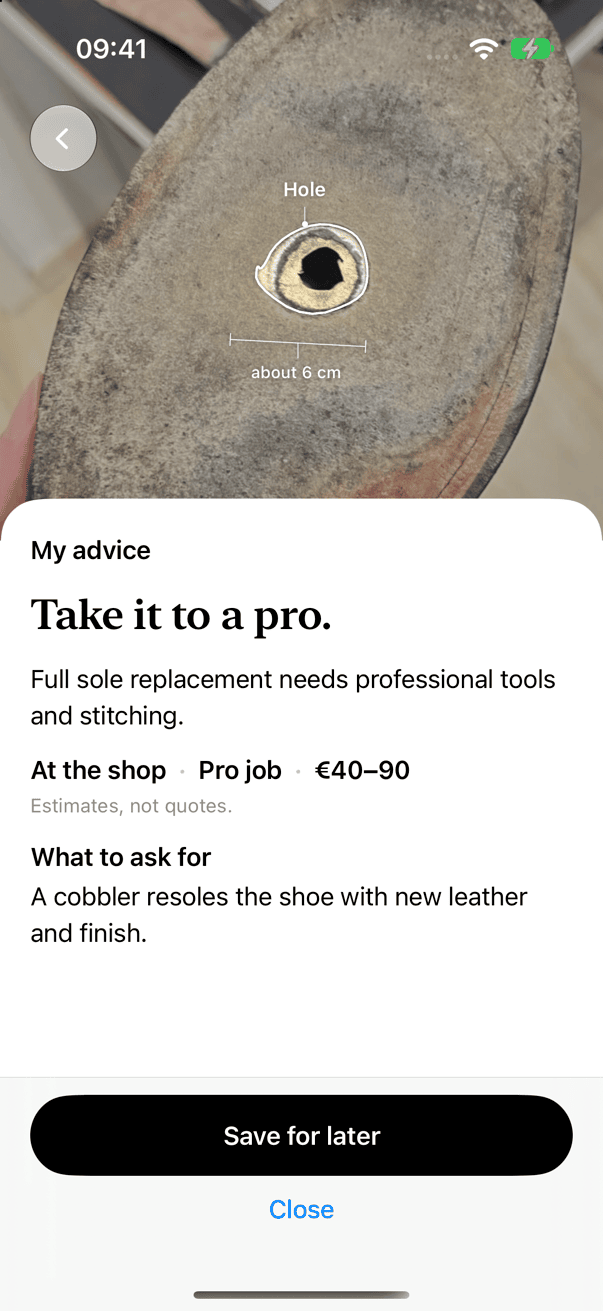
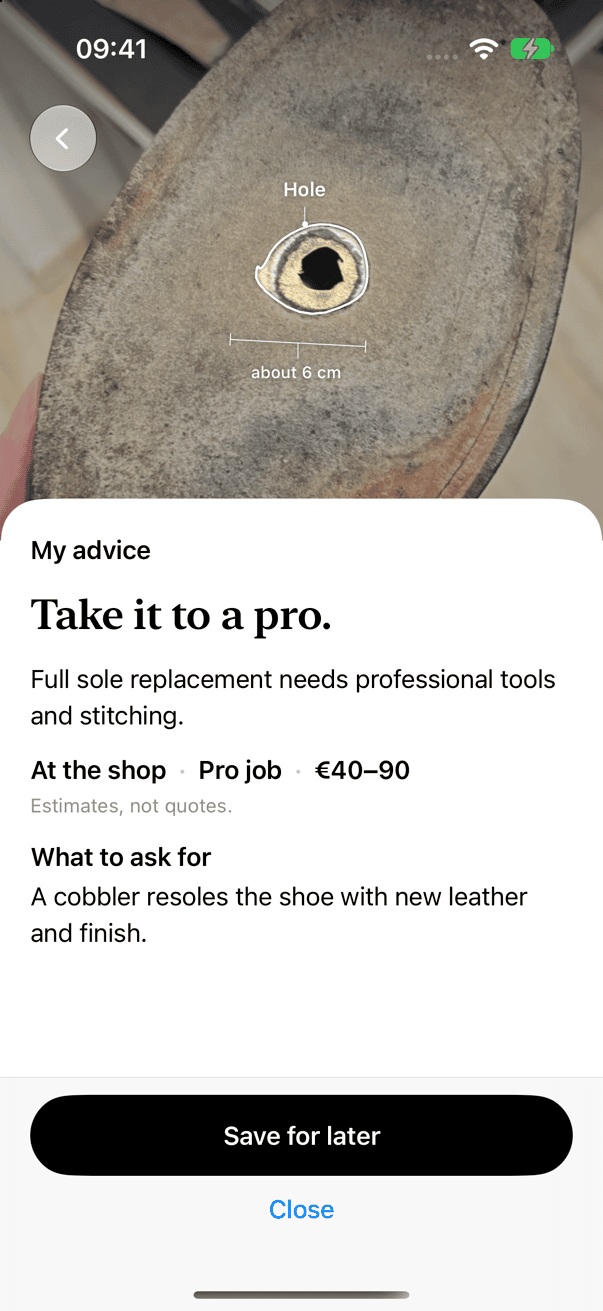
ios: Statusleiste auf Fotos lesbar, Scan-Taste mit Abstand, keine internen IDs im Protokoll, Done-Tab mit Zusammenfassung, Projekt-Schritte vollständig; Übergabe aktualisiert

Changed region(s): [[0.0, 0.0, 1.0, 0.0915], [0.4478, 0.1831, 0.4776, 0.2136], [0.0299, 0.3356, 0.0597, 0.3661]]

diff --git a/ios/RepairAssistant/DesignSystem/MarkedPhoto.swift b/ios/RepairAssistant/DesignSystem/MarkedPhoto.swift
@@ -26,6 +26,8 @@ struct MarkedPhoto<Overlay: View>: View {
     /// Tap in normalized photo coordinates (tap to refine).
     var onTap: ((CGPoint) -> Void)? = nil
     var zoomable = true
+    /// Subtle top gradient so the status bar stays legible on full-bleed photos.
+    var topScrim = true
     @ViewBuilder var overlay: (CGSize) -> Overlay
 
     @State private var zoomedOut = false
@@ -38,6 +40,12 @@ struct MarkedPhoto<Overlay: View>: View {
     var body: some View {
         GeometryReader { geo in
             content(container: geo.size)
+        }
+        .overlay(alignment: .top) {
+            if topScrim && mode != .thumb {
+                LinearGradient(colors: [.black.opacity(0.35), .clear], startPoint: .top, endPoint: .bottom)
+                    .frame(height: 120).allowsHitTesting(false)
+            }
         }
         .clipped()
         .accessibilityElement(children: .ignore)
@@ -127,9 +135,9 @@ struct MarkedPhoto<Overlay: View>: View {
 
 extension MarkedPhoto where Overlay == EmptyView {
     init(image: UIImage, segments: [Segment], mode: Mode = .resting, showLabels: Bool = true, showDimension: Bool = false,
-         labelTopInset: CGFloat = 0, focus: CGRect? = nil, onTap: ((CGPoint) -> Void)? = nil, zoomable: Bool = true) {
+         labelTopInset: CGFloat = 0, focus: CGRect? = nil, onTap: ((CGPoint) -> Void)? = nil, zoomable: Bool = true, topScrim: Bool = true) {
         self.init(image: image, segments: segments, mode: mode, showLabels: showLabels, showDimension: showDimension, labelTopInset: labelTopInset, focus: focus,
-                  onTap: onTap, zoomable: zoomable, overlay: { _ in EmptyView() })
+                  onTap: onTap, zoomable: zoomable, topScrim: topScrim, overlay: { _ in EmptyView() })
     }
 }
 

diff --git a/ios/RepairAssistant/Views/HomeView.swift b/ios/RepairAssistant/Views/HomeView.swift
@@ -27,6 +27,7 @@ struct HomeView: View {
                             belowCards(done)
                         } else {
                             if done.isEmpty { quiet("Finished repairs show up here.") }
+                            else { Text(doneSummary(done)).font(.subheadline).foregroundStyle(Theme.inkSecondary) }
                             VStack(spacing: 0) {
                                 ForEach(Array(done.enumerated()), id: \.element.id) { i, c in
                                     DoneRow(project: c) { flow.openProject(c) }
@@ -39,7 +40,7 @@ struct HomeView: View {
                     .animation(Theme.spring, value: tab)
                 }
                 .scrollIndicators(.hidden)
-                .safeAreaInset(edge: .bottom) { Color.clear.frame(height: 120) }
+                .safeAreaInset(edge: .bottom) { Color.clear.frame(height: 150) }
                 scanButton.padding(.bottom, 24)
             }
         }
@@ -126,6 +127,17 @@ struct HomeView: View {
             }
             .padding(.top, 16)
         }
+    }
+
+    private func doneSummary(_ done: [SavedCase]) -> String {
+        let n = done.count
+        let head = n == 1 ? "1 repair done" : "\(n) repairs done"
+        let saved = done.compactMap { c -> Double? in
+            guard c.response.decision?.recommendation == .repairSelf, let hi = c.response.decision?.costEur.last, hi > 0 else { return nil }
+            let lo = c.response.decision?.costEur.first ?? hi
+            return (lo + hi) / 2
+        }.reduce(0, +)
+        return saved >= 5 ? head + " · about €\(Int((saved / 5).rounded() * 5)) saved vs. buying new" : head
     }
 
     private func quiet(_ text: String) -> some View {

diff --git a/ios/RepairAssistant/Views/ScanView.swift b/ios/RepairAssistant/Views/ScanView.swift
@@ -40,7 +40,7 @@ struct ScanView: View {
                 Color.black.ignoresSafeArea()
                 preview.frame(maxWidth: .infinity, maxHeight: .infinity).clipped().ignoresSafeArea()
                 if let frozen { Image(uiImage: frozen).resizable().scaledToFill().frame(maxWidth: .infinity, maxHeight: .infinity).clipped().ignoresSafeArea().transition(.opacity) }
-                LinearGradient(colors: [.black.opacity(0.28), .clear], startPoint: .top, endPoint: .bottom).frame(height: 140).frame(maxHeight: .infinity, alignment: .top).ignoresSafeArea().allowsHitTesting(false)
+                LinearGradient(colors: [.black.opacity(0.35), .clear], startPoint: .top, endPoint: .bottom).frame(height: 120).frame(maxHeight: .infinity, alignment: .top).ignoresSafeArea().allowsHitTesting(false)
                 LinearGradient(colors: [.clear, .black.opacity(0.4)], startPoint: .top, endPoint: .bottom).frame(height: 220).frame(maxHeight: .infinity, alignment: .bottom).ignoresSafeArea().allowsHitTesting(false)
 
                 if phase == .running || phase == .unavailable || phase == .starting {

diff --git a/ios/RepairAssistant/Views/AgentTraceView.swift b/ios/RepairAssistant/Views/AgentTraceView.swift
@@ -181,7 +181,19 @@ enum AgentLabel {
         ("Spark prüft Maske ", "", "Spark prüft Maske %@"),
     ]
 
+    /// Display-only: internal segment ids ("mask seg_3", "seg_3") never reach the user.
+    static func scrub(_ label: String) -> String {
+        var t = label
+        t = t.replacingOccurrences(of: #"(?i)(mask|maske)\s+seg_\w+"#, with: "the outline", options: .regularExpression)
+        t = t.replacingOccurrences(of: #"seg_\w+"#, with: "the outline", options: .regularExpression)
+        return t
+    }
+
     static func localized(_ label: String, english: Bool = Lang.shared.isEnglish) -> String {
+        scrub(localizedRaw(label, english: english))
+    }
+
+    private static func localizedRaw(_ label: String, english: Bool) -> String {
         guard english else { return label }
         let direct = tr(label)
         if direct != label { return direct }

diff --git a/ios/RepairAssistantTests/LocalizationTests.swift b/ios/RepairAssistantTests/LocalizationTests.swift
@@ -85,7 +85,7 @@ final class LocalizationTests: XCTestCase {
         XCTAssertEqual(AgentLabel.localized("SAM sucht „rip“", english: false), "SAM sucht „rip“")
         Lang.shared.choice = "en"
         XCTAssertEqual(AgentLabel.localized("SAM sucht „rip“", english: true), "SAM is looking for “rip”")
-        XCTAssertEqual(AgentLabel.localized("Spark prüft Maske seg_1", english: true), "Spark is checking mask seg_1")
+        XCTAssertEqual(AgentLabel.localized("Spark prüft Maske seg_1", english: true), "Spark is checking the outline")
         XCTAssertEqual(AgentLabel.localized("Plan zusammenstellen", english: true), "Assembling the plan")
         XCTAssertEqual(AgentLabel.localized("Riss", english: true), "Tear")
     }

diff --git a/ios/RepairAssistant/Views/ProjectView.swift b/ios/RepairAssistant/Views/ProjectView.swift
@@ -33,11 +33,11 @@ struct ProjectView: View {
                         Text("A pro will take this one. Come back after the repair to log it.").font(.body).foregroundStyle(Theme.inkSecondary).lineSpacing(4)
                     } else {
                         progress(c)
-                        if !finished { needSection }
                         if !finished && !steps.isEmpty { stepsSection }
+                        if !finished { needSection }
                     }
                 }
-                .padding(.horizontal, Theme.margin).padding(.top, 8).padding(.bottom, 40)
+                .padding(.horizontal, Theme.margin).padding(.top, 8).padding(.bottom, 48)
             }
         }
         .scrollIndicators(.hidden)

diff --git a/ios/RepairAssistant/Views/BlockView.swift b/ios/RepairAssistant/Views/BlockView.swift
@@ -46,7 +46,7 @@ struct BlockView: View {
                 if let photo = flow.photo {
                     Group {
                         if let r = flow.response, !r.segments.isEmpty {
-                            MarkedPhoto(image: photo, segments: r.segments, mode: .resting, showLabels: true, focus: DamageFocus.region(for: r.segments), zoomable: false)
+                            MarkedPhoto(image: photo, segments: r.segments, mode: .resting, showLabels: true, focus: DamageFocus.region(for: r.segments), zoomable: false, topScrim: false)
                         } else {
                             Image(uiImage: photo).resizable().scaledToFill()
                         }

diff --git a/docs/HANDOFF.md b/docs/HANDOFF.md
@@ -1,21 +1,34 @@
-# Übergabe (Stand 29.10.2026, abends)
+# Übergabe (Stand 30.10.2026, früh)
 
-Ziel: unabhängige Jury bewertet 10/10 (Briefing: `docs/JUDGING-BRIEF.md`). Letzte Gesamt-Jury 7,1/10, letzte Demo-Jury 8/10. Beide noch vor dem iOS-27-Umbau und dem PDF-Export.
+Ziel: Eine unabhängige Jury bewertet 10/10 (Briefing: `docs/JUDGING-BRIEF.md`).
+
+Jury-Verlauf in der Nacht (jede Runde ein frischer Agent, alle v8-Screenshots, README, Briefing):
+
+| Runde | Gesamt | "Wirkt KI-generiert?" |
+| --- | --- | --- |
+| 1 | 7,6 | ja, leicht |
+| 2 | 7,4 | ja, leicht |
+| 3 | 7,0 | ja, leicht |
+| 4 | 7,4 | **nein** |
+| 5 | 7,2 | **nein** |
+
+Die Werte schwanken je nach Juror um etwa ±0,3. Gedeckelt sind sie durch zwei Punkte, die kein Design-Fix löst:
+
+1. **Impact (30 %) liegt bei 6–7.** Echte Nutzer und eine echte, gefilmte Reparatur fehlen. Nutzergeschichten werden bewusst nicht erfunden.
+2. **Use of Meta tooling bleibt unter 9.** Open-Weight-Modelle sind nicht eingebaut. Die Entscheidungsvorlage liegt in `docs/OPEN-WEIGHTS-PLAN.md`: Muse Glimmer lokal im Proxy für "Not working?", etwa 20 GB Download auf die SSD, Aufwand 4–6 Stunden. **Freigabe offen.**
 
 ## Stand
-- Proxy (252 Tests offline grün) und iOS (82 Tests grün), letzter Commit `6dc3cd7`.
-- Live verifiziert: SAM 3.1, Muse Spark (Grounding → SAM-Box), Muse Image (Vorher/Nachher), Muse Wonder (Präzisionsmodus), Muse Voice. Benchmark mit 16 Fällen in `docs/benchmark.md`.
-- App ist nur noch Englisch, iOS-27-Design (Systemfarben, Liquid Glass, kein Orange, weiße Visual-Intelligence-Masken). Bebilderter PDF-Export der Anleitung ist eingebaut, aber **noch nicht angesehen**.
-- Abgabe-Repo: `~/Desktop/repair-assistant` (Subtree-Split, MIT). Vor der Abgabe neu splitten und dorthin pullen (siehe Memory `standalone-submission-repo`).
-- Proxy starten: `cd proxy && uv run uvicorn app.main:app --port 8787` (Key in `proxy/.env`). Screenshots: `./scripts/screenshots.sh`. Demo für Juroren: `./scripts/run-demo.sh`.
+- Redesign nach `docs/design/REDESIGN-SPEC.md`: 28 Mobbin-Suchen, 69 Referenzbilder in `docs/design/refs/`. Home mit Projekten, Scan, Markierung, Befund, Urteil, "Before you start", Anleitung, Projekt, Abschluss, Sicherheitsstopp, Einstellungen. Name **Mendlet**, Icon `docs/branding/icon-b.png`.
+- Nur Englisch, auch auf einem deutschen iPhone. Akzent System-Blau, kein Orange. Der PDF-Export ist entfernt.
+- Diagnose-Prompt v7 sorgt für natürliche, kurze Texte mit "Done when". Live neu aufgenommen: Pulli (echtes Foto), Ledersohle (echtes Foto), verschlissenes Shirt (Replace mit "second life"), Sneaker, Pulli mit 3 Löchern, Jeans mit Etikett, Heizjacke, Helm.
+- Tests: iOS 91 grün, Proxy 254 grün. Screenshots `docs/screenshots/v8-en-*.png` (32 Stück, frisch).
+- Proxy-Fix: Eine präzise Spark-Box schlägt eine breite SAM-Schadensbox (Sohlenloch).
 
-## Nächste Schritte (Reihenfolge)
-1. **Echte Fotos live analysieren** und in den Benchmark aufnehmen: `testdata/real/01_ledersohle_loch.jpg` (Sohle bis zum Loch durchgelaufen, eher "Profi/neu besohlen") und `testdata/real/02_pulli_kleines_loch.jpg` (kleines, schwer sichtbares Loch). Wenn SAM/Grounding das Pulli-Loch nicht findet: Grounding-Prompt für kleine Löcher schärfen, Tap-to-refine (`/refine`) in der Diagnose sichtbar anbieten.
-2. **Demo-Fix "schwer zu erkennen":** Bei kleinen Schäden auf dem Foto automatisch auf die Schadstelle zoomen (Diagnose und Anleitung: Ausschnitt um die Damage-Box mit Rand, Pinch-to-zoom), Maske kräftiger zeichnen. Die echten Fotos als Demo-Aufnahmen speichern (`ios/RepairAssistant/Resources/LiveRecordings/`, inkl. `.en.json`).
-3. ~~PDF-Export~~ entfällt (Owner 29.10.: "PDF brauche ich nicht. raus damit"), wird im Redesign entfernt.
-4. Screenshots neu aufnehmen und alle Screens gegen die Mobbin-Collection prüfen (`https://mobbin.com/collections/175c3475-f7b6-41b6-af7c-3dc3a68df769`).
-5. Bei Empfehlung "Replace": Upcycling-, Recycling- und Spendehinweise (Spark, optional Muse-Image-Vorschau der Upcycling-Idee).
-6. Schlanke Jury-Runde (nur Demo bzw. Kerndokumente, kurzer Bericht).
+## Bekannte Lücken
+- **Codex-Login:** Der Status meldet "aktiv", das Token lässt sich aber nicht erneuern, und Jobs scheitern sofort. Bitte `codex login` ausführen. Codex nie für Design einsetzen.
+- **Muse Image:** Lieferte um ca. 05:00 HTTP 400 auf jede Anfrage, auch eine schlichte. Die Pulli-Vorschau zeigt deshalb noch die X-förmige Stopfstelle. Später neu erzeugen (Skript-Muster: `after_preview` mit `stitch_type=darning`).
+- **Platine:** Die Aufnahme mit v7 hat die Polarität verloren. Die alte Aufnahme mit längeren Texten bleibt drin.
+- **Shirt:** SAM markiert nur 1 von vielen Löchern. Beim Urteil "Replace" wird deshalb kein Label gezeigt.
 
 ## Nur durch den Menschen
-Video nach `docs/demo-script.md` drehen, Live-Scan auf echtem iPhone testen, GitHub-Repo veröffentlichen, Discord-Fragen (Arbeit nach Kickoff 26.10., starten Juroren die App?).
+Video drehen: ein echtes, unbekanntes Teil am echten iPhone gegen den Live-Proxy. Das bringt laut Jury den größten Gewinn bei "Demo". Außerdem: Live-Scan auf dem Gerät testen, Repo veröffentlichen (vorher Subtree-Split nach `~/Desktop/repair-assistant` erneuern), Discord-Fragen klären, Open Weights freigeben oder ablehnen, `codex login`.
